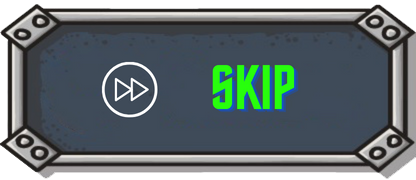
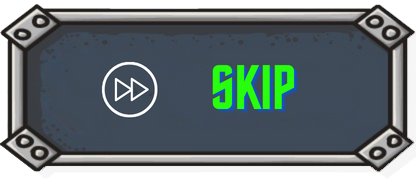
Fully updated story screen

Changed region(s): [[0.0625, 0.1667, 1.0, 1.0]]

diff --git a/source/core/src/main/com/deco2800/game/components/gamestory/GameStoryDisplay.java b/source/core/src/main/com/deco2800/game/components/gamestory/GameStoryDisplay.java
@@ -51,17 +51,17 @@ public class GameStoryDisplay extends UIComponent {
 
         Button.ButtonStyle startStyle = new Button.ButtonStyle();
         startStyle.up= new TextureRegionDrawable(new TextureRegion(
-                new Texture(Gdx.files.internal("images/FDS_btn_start1.png"))));
+                new Texture(Gdx.files.internal("images/btn_skip1.png"))));
         startStyle.over= new TextureRegionDrawable(new TextureRegion(
-                new Texture(Gdx.files.internal("images/FDS_btn_start2.png"))));
+                new Texture(Gdx.files.internal("images/btn_skip2.png"))));
         Button startBtn = new Button(startStyle);
 
         // exit button
         Button.ButtonStyle exitStyle = new Button.ButtonStyle();
         exitStyle.up= new TextureRegionDrawable(new TextureRegion(
-                new Texture(Gdx.files.internal("images/FDS_btn_exit1.png"))));
+                new Texture(Gdx.files.internal("images/btn_exit1.png"))));
         exitStyle.over= new TextureRegionDrawable(new TextureRegion(
-                new Texture(Gdx.files.internal("images/FDS_btn_exit2.png"))));
+                new Texture(Gdx.files.internal("images/btn_exit2.png"))));
         Button exitBtn = new Button(exitStyle);
 
         // Triggers an event when the button is pressed
